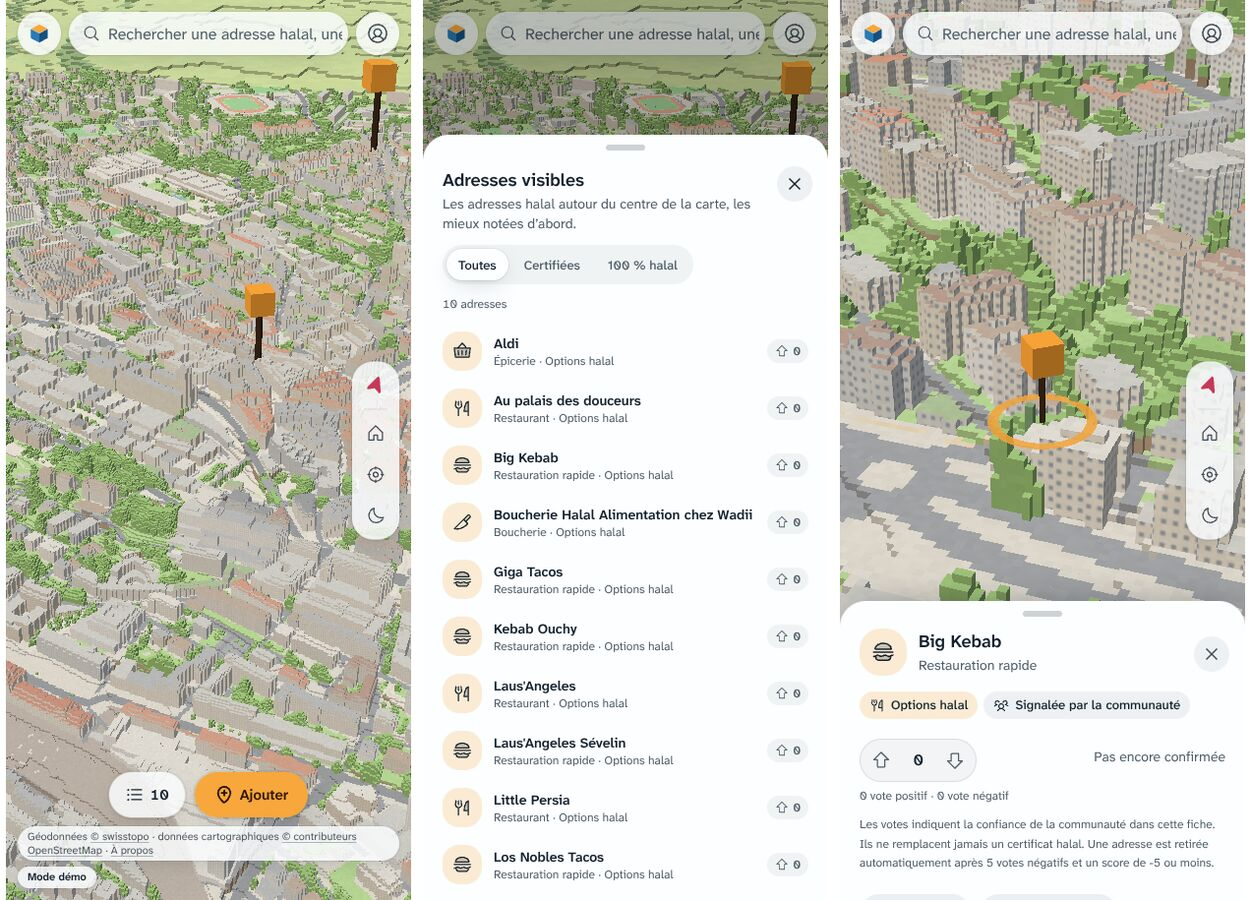
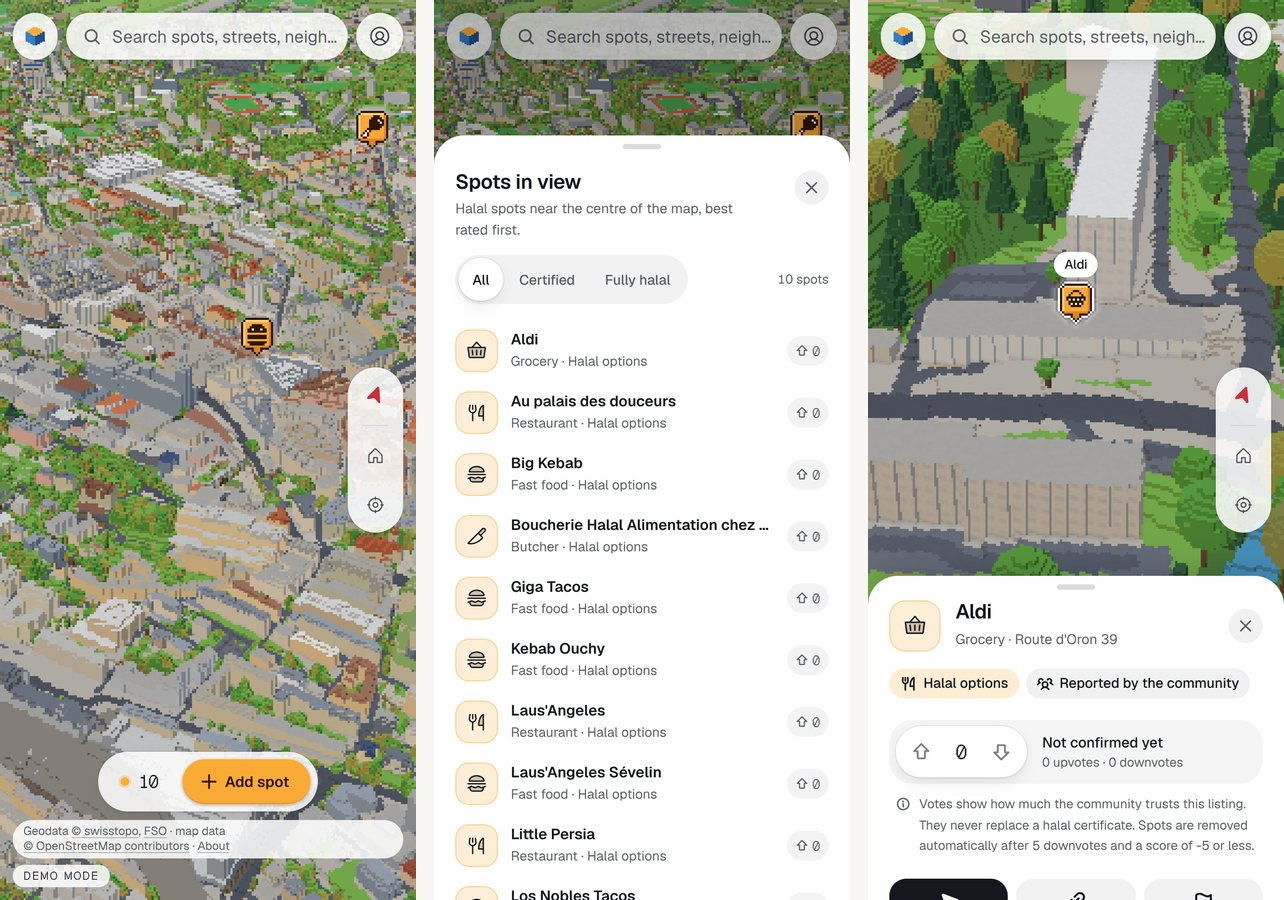
docs: new README views of the coloured agglomeration and the redesign
The overview and the three phone views (the map with its badges, the
spots list, a spot's panel over the map) are taken from the agglomeration
build with the new interface; the README lists the living city and the
calmer interface.

diff --git a/README.md b/README.md
@@ -5,7 +5,7 @@ whole city block by block, find spots, vote on them (a spot that enough
 people judge wrong is removed), review them and say how you checked the halal
 status.
 
-![The voxel city of Lausanne seen from above the lake, with halal spots as saffron pins](docs/assets/lausanne-overview.jpg)
+![The pixel-art voxel city of Lausanne seen from above the lake, with halal spots as small saffron badges](docs/assets/lausanne-overview.jpg)
 
 * **Real Lausanne, blocky look**: terrain, buildings with their roofs,
   streets, every tree and the lake of Lausanne and its 15 neighbouring
@@ -14,6 +14,13 @@ status.
   streamed quadtree of 10 540 tiles (1–8 m voxels). Roofs take their colour
   from the aerial photo, facades from their construction period, all drawn as
   pixel art under Lausanne's real sky.
+* **A living city**: spots are pixel-art badges showing their category; the
+  lake's boats run on the real timetable (the Évian shuttles, the paddle
+  steamer to Vevey), gulls circle Ouchy and pigeons the cathedral, clouds
+  drift, the sun follows Lausanne's clock and night lights the windows.
+* **A calm interface over it** ("Diorama"): islands and a dock in warm paper
+  and ink, Geist with pixel accents, panels that keep the city in view (the
+  map recentres beside them), small motions that confirm what changed.
 * **Community trust, not certification**: votes measure trust in a listing;
   only a moderator-checked certificate is shown as verified.
 * **Accessible**: WCAG 2.2 AA target, keyboard model for the 3D map with
@@ -23,7 +30,7 @@ status.
 * **Free to run**: Vercel, Cloudflare Pages and Supabase free tiers.
 * French and English, light and dark (night) modes.
 
-![Phone views: the city, the list of spots in view, and a spot's panel](docs/assets/phone-views.jpg)
+![Phone views: the city with its badges, the list of spots in view, and a spot's panel over the map](docs/assets/phone-views.jpg)
 
 ## Quick start
 
